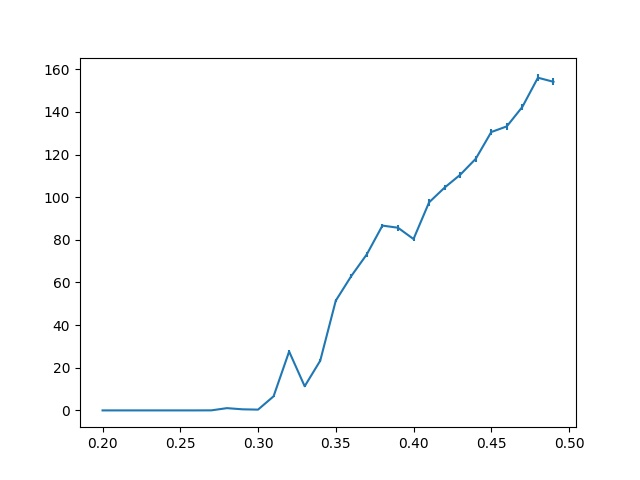
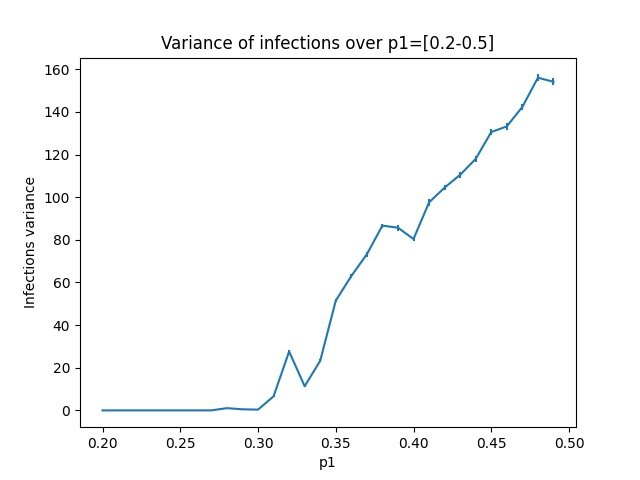
bug fixes and added readme

Changed region(s): [[0.25, 0.0625, 0.7812, 0.125], [0.0312, 0.375, 0.0625, 0.6562], [0.5, 0.9375, 0.5312, 1.0]]

diff --git a/display.py b/display.py
@@ -10,6 +10,8 @@ import pickle
 import os.path
 from concurrent.futures import ProcessPoolExecutor, as_completed
 import threading
+import sys
+from scipy.stats import sem
 
 class EntryWithPlaceholder(tk.Entry):
     def __init__(self, master=None, placeholder="PLACEHOLDER", color='grey'):
@@ -36,7 +38,6 @@ class EntryWithPlaceholder(tk.Entry):
     def foc_out(self, *args):
         if not self.get():
             self.put_placeholder()
-
 
 class GoLFrame(tk.Frame):
     def __init__(self, parent, Options, *args, **kwargs):
@@ -93,6 +94,10 @@ class GoLFrame(tk.Frame):
         G.animateCoM(params['fg_colour'], params['bg_colour'], params['steps'], "Game of Life", patches, 1, 1)
 
     def measure(self):
+        """
+        Measure the number of alive cells until they come to equilibrium a given number of times
+        to generate a histogram
+        """
         self.progressbar.grid(column=0, row=9, columnspan=2)
         params = self.O.get_params()
         steps = []
@@ -112,6 +117,7 @@ class GoLFrame(tk.Frame):
         self.progressbar.grid_forget()
         with open('equilibrium.txt', 'w') as outfile:
             outfile.write(','.join(map(str, steps)))
+        sys.exit()
 
     def begin(self):
         params = self.O.get_params()
@@ -218,6 +224,9 @@ class SIRSFrame(tk.Frame):
         S.animate(cols, params['bg_colour'], params['steps'], "SIRS", patches, 2, update_method='s')
 
     def variance_precise(self):
+        """
+        Measure the variance of infections over a short range of p1 [0.2-0.5]
+        """
         self.progressbar.grid(row=7, column=0, columnspan=2)
         self.progressbar['value'] = 0
         params = self.O.get_params()
@@ -262,8 +271,12 @@ class SIRSFrame(tk.Frame):
             out += ','.join(map(str, var))+'\n'
             out += ','.join(map(str, error))
             outfile.write(out)
+        sys.exit()
 
     def measure_infections(self):
+        """
+        Measure the infection population and the variance for constant p2
+        """
         params = self.O.get_params()
         self.progressbar.grid(row=7, column=0, columnspan=2)
         self.progressbar['value'] = 0
@@ -295,8 +308,12 @@ class SIRSFrame(tk.Frame):
         with open("SIRSMeasurements", 'wb') as outfile:
             pickle.dump(data, outfile)
         self.progressbar.grid_forget()
+        sys.exit()
 
     def measure_immune(self):
+        """
+        Measure how the infected fraction changes with increasing immunised population
+        """
         params = self.O.get_params()
         self.progressbar.grid(row=7, column=0, columnspan=2)
         self.progressbar['value'] = 0
@@ -321,10 +338,8 @@ class SIRSFrame(tk.Frame):
                     tasks.append(e.submit(S.measure_infections, 100, params['measurements']))
                 for t in as_completed(tasks):
                     x.append(np.mean(t.result()[0]))
-                x_mean = np.mean(x)
-                infs.append(x_mean)
-                std_dev = np.sqrt(sum(np.array(x)-x_mean)**2/(runs-1))
-                errors.append(std_dev/(runs**0.5))
+                infs.append(np.mean(x))
+                errors.append(sem(x))
         self.progressbar.grid_forget()
 
         with open(f"Immune({p1},{p2},{p3}).txt", 'w') as outfile:
@@ -333,6 +348,7 @@ class SIRSFrame(tk.Frame):
             out += ','.join((map(str, errors)))
 
             outfile.write(out)
+        sys.exit()
 
 
 class OptionsFrame(tk.Frame):
@@ -405,7 +421,7 @@ class GraphFrame(tk.Frame):
         self.graphs = ttk.Combobox(self, values=[], postcommand=self.update_options)
         self.plot_button = ttk.Button(self, text="Plot", command=self.plot)
         self.graphs.bind('<<ComboboxSelected>>', self.showdir)
-        self.dir = EntryWithPlaceholder(self, "Infection data filename...")
+        self.dir = EntryWithPlaceholder(self, "p1,p2,p3...")
         self.dir.configure(width=25)
         self.graphs.grid(row=0, column=0, pady=10)
         self.plot_button.grid(row=2, column=0)
@@ -452,6 +468,9 @@ class GraphFrame(tk.Frame):
         with open("equilibrium.txt", 'r') as infile:
             times = list(map(int, infile.read().split(',')))
         plt.hist(times)
+        plt.xlabel("Count")
+        plt.ylabel("Time to complete (Steps)")
+        plt.title("Number of Steps for Game of Life to Reach Equilibrium")
         plt.savefig('equilibrium.jpg')
         plt.show()
 
@@ -462,6 +481,9 @@ class GraphFrame(tk.Frame):
             xs = [int(p.split(',')[0]) for p in data]
             ys = [int(p.split(',')[1]) for p in data]
         plt.scatter(xs, ys)
+        plt.xlabel("x-distance along grid")
+        plt.ylabel("y-distance along grid")
+        plt.title("Glider Centre-of-Mass")
         plt.show()
 
     def SIRS_heatmap(self):
@@ -471,7 +493,10 @@ class GraphFrame(tk.Frame):
         ys = list(data[0])
         im = [[data[x][y]['val'] for y in ys] for x in xs]
         plt.imshow(im)
-        plt.savefig("SIRS heat map.jpg")
+        plt.xlabel("p1")
+        plt.ylabel("p3")
+        plt.title("SIRS p1-p3 Phase diagram")
+        plt.savefig("SIRS Phase Diagram.jpg")
         plt.show()
 
     def SIRS_contor(self):
@@ -480,7 +505,11 @@ class GraphFrame(tk.Frame):
         xs = list(data)
         ys = list(data[0])
         zs = [[data[x][y]['var'] for y in ys] for x in xs]
-        plt.contour(xs, ys, zs)
+        cs = plt.contour(xs, ys, zs)
+        plt.clabel(cs,inline=1,fontsize=10)
+        plt.xlabel("p1")
+        plt.ylabel("p3")
+        plt.title("SIRS contour")
         plt.savefig("SIRS Contour.jpg")
         plt.show()
 
@@ -490,17 +519,26 @@ class GraphFrame(tk.Frame):
             ys = list(map(float, infile.readline().split(',')))
             error = list(map(float, infile.readline().split(',')))
         plt.errorbar(xs, ys, yerr=error)
+        plt.xlabel("p1")
+        plt.ylabel("Infections variance")
+        plt.title("Variance of infections over p1=[0.2-0.5]")
         plt.savefig("SIRS variance plot.jpg")
         plt.show()
 
     def plot_immunisations(self):
-        filename = self.dir.get()
-        with open(filename,'r') as infile:
+        ps = self.dir.get()
+        with open(f"Immune({ps}).txt",'r') as infile:
             xs = list(map(float, infile.readline().split(',')))
             ys = list(map(float, infile.readline().split(',')))
+            ys = [y/2500 for y in ys]
             error = list(map(float, infile.readline().split(',')))
+            error = [e/2500 for e in error]
         plt.errorbar(xs, ys, yerr=error)
-        plt.savefig("Infections-Immunisation.jpg")
+        plt.xlabel("Fraction of immune population")
+        plt.ylabel("Number of infected")
+        plt.title("Variation of Infections with Immunisation")
+
+        plt.savefig(f"Infections-Immunisation{ps}.jpg")
         plt.show()
 
 

diff --git a/readme.md b/readme.md
@@ -1,0 +1,78 @@
+Cellular Automata
+=================
+A solution to checkpoint 2 for the Modelling and Visualisation in Physics course
+studying cellular automata with 2 use cases: Conway's Game of Life and the SIRS
+model of epidemic spreading.
+
+Contents
+--------
+1. Prerequisites
+2. Using the UI
+3. Game of Life
+4. SIRS
+5. Graphing
+6. Options
+
+Prerequisites
+-------------
+See requirements.txt
+
+Using the UI
+------------
+To open the UI, run the file display.py
+
+Game of Life
+------------
+![game of life UI](gameoflifeimage.png)
+
+1. The method by which the grid will be initalised
+2. The measure button. Pressing will start measuring how long the system
+takes to reach equilibrium, and will produce a datafile for a histogram of the
+results
+3. The run button. This button will animate the system using the initial conditions
+from 1.
+4. The run COM button. This will animate the centre of mass of the system using the 
+initial conditions
+5. The speed button. This will measure the speed of a glider moving through the system
+and display it in the text box.
+
+SIRS
+----
+![SIRS UI](sirsimage.png)
+1. Choose predefined values for the system to show either dynamic equilibrium,
+cyclic waves, or an absorbing state. Choose custom to set your own values
+2. p1. Probability of a susceptible agent becoming infected
+3. p2. Probability of an infected agent recovering
+4. p3. Probability of a recovered agent becoming susceptible
+5. Fraction immune. Fraction of the agents which start immune to the infection
+6. Immune runs. Used for determining how many runs to perform the immunity measurements
+7. Run. Animates the system for the given values
+8. Measure. Will measure the infected population and its variance with changing p1 and p3.
+Produces a data file for the phase diagram and contour plot.
+9. Precise variance. Measures the variance of the infected population with p1 between 0.2 and
+0.5. Produces a data file for the line plot.
+10. Measure immunity. Measures how the infected population changes over an increase in the immune
+population. Uses the chosen values for p1, p2, and p3.
+
+
+Graphing
+--------
+![Graph UI 1](graphimage1.png)
+1. choose which plot to display
+2. Plot button. Displays the plot and saves the image
+![Graph UI 2](graphimage2.png)
+3. For deciding which immunity graph to plot. Enter the probabilities chosing as p1,p2,p3
+e.g. 0.5,0.5,0.5
+
+Options
+------
+![Options UI](optionsimage1.png)
+1. Grid size
+2. Colour of an active cell for Game of Life or susceptible cell for SIRS
+3. Colour of an infected cell in SIRS
+4. Colour of a dead cell in Game of Life or recovered cell in SIRS
+5. Colour of an immune cell in SIRS
+6. Display steps. The number of steps for which to animate the systems
+7. Measurement Sweeps. The number of sweeps to perform after reaching equilibrium
+8. Precision. The interval to increase the variables by in the SIRS model.
+9. Apply Button. Applies these settings. This must be pressed for the changes to take effect.
